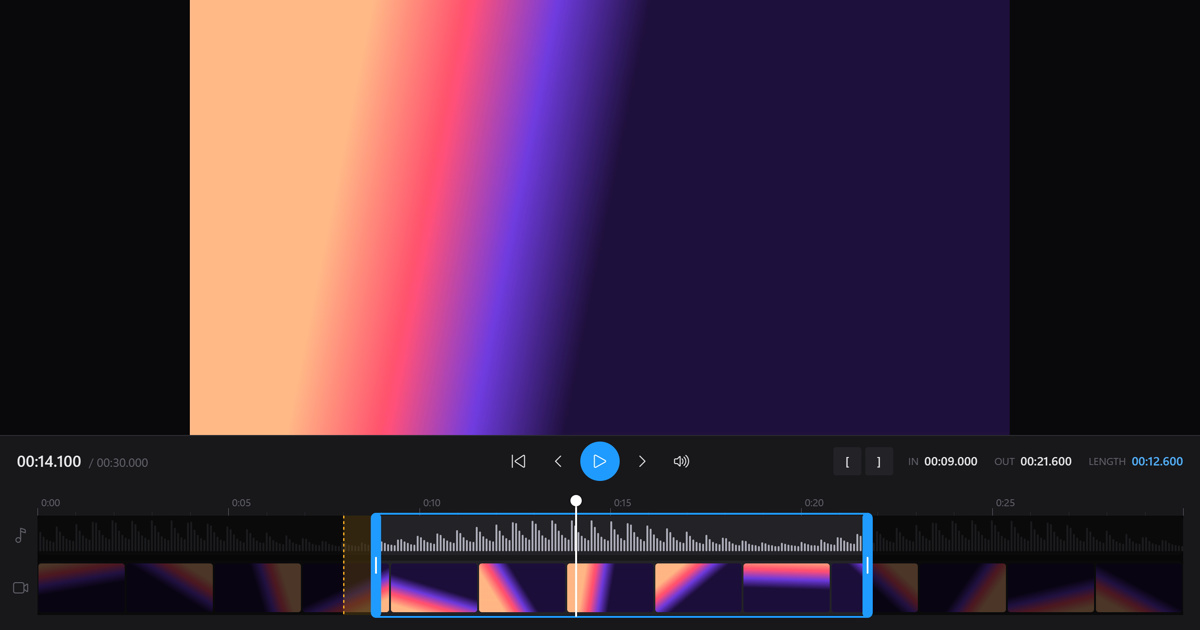
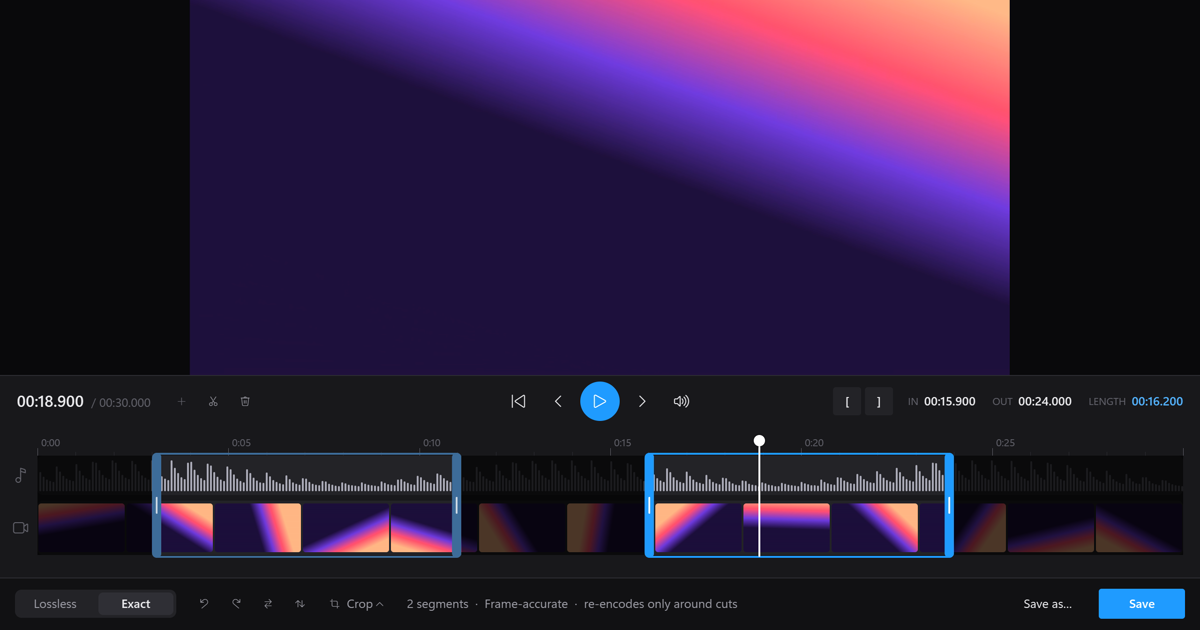
Website and README for VidTrim 0.3.0: smart cut, segments, rotate/flip, crop, copy frame

diff --git a/docs/index.html b/docs/index.html
@@ -4,9 +4,9 @@
 <meta charset="utf-8">
 <meta name="viewport" content="width=device-width, initial-scale=1">
 <title>VidTrim — trim videos from the right-click menu</title>
-<meta name="description" content="VidTrim is a tiny, native Windows app: right-click any video, drag two handles, save. Lossless cuts in seconds or frame-accurate GPU re-encodes.">
+<meta name="description" content="VidTrim is a tiny, native Windows app: right-click any video, drag the handles, save. Lossless cuts in seconds, frame-accurate smart cuts, cut out the middle, rotate and crop.">
 <meta property="og:title" content="VidTrim — trim videos from the right-click menu">
-<meta property="og:description" content="Right-click a video, drag two handles, save. Native, instant, lossless. Free for Windows 10 &amp; 11.">
+<meta property="og:description" content="Right-click a video, drag the handles, save. Cut out the middle, rotate, crop. Native, instant, lossless. Free for Windows 10 &amp; 11.">
 <meta property="og:image" content="https://adamcfranco.github.io/vidtrim-releases/assets/og.png">
 <meta property="og:type" content="website">
 <meta name="twitter:card" content="summary_large_image">
@@ -152,12 +152,14 @@
   .mini .strip span { flex: 1; border-radius: 4px; background: linear-gradient(135deg, #2a1052, #7b2ff7 45%, #ff4d6d 75%, #ffb38a); opacity: .9; }
   .mini .strip span:nth-child(2n) { background: linear-gradient(200deg, #1d0b3a, #6c2bd9 40%, #ff3d6e 80%); }
   .mini .dim { position: absolute; top: 0; bottom: 0; background: rgba(0, 0, 0, 0.62); }
-  .mini .sel { position: absolute; top: 4px; bottom: 4px; left: 26%; right: 22%; border: 2px solid var(--accent); border-radius: 7px; }
+  .mini .sel { position: absolute; top: 4px; bottom: 4px; border: 2px solid var(--accent); border-radius: 7px; }
   .mini .sel::before, .mini .sel::after {
-    content: ""; position: absolute; top: -2px; bottom: -2px; width: 10px; background: var(--accent); border-radius: 5px;
+    content: ""; position: absolute; top: -2px; bottom: -2px; width: 9px; background: var(--accent); border-radius: 5px;
   }
-  .mini .sel::before { left: -10px; }
-  .mini .sel::after { right: -10px; }
+  .mini .sel::before { left: -2px; }
+  .mini .sel::after { right: -2px; }
+  .mini .sel.idle { border-color: #3d6c99; }
+  .mini .sel.idle::before, .mini .sel.idle::after { background: #3d6c99; }
 
   .saved {
     display: flex; align-items: center; gap: 10px; padding: 12px 14px;
@@ -239,7 +241,7 @@
     <div class="wrap">
       <span class="eyebrow">Free for <b>Windows 10 &amp; 11</b></span>
       <h1>Trim any video from the <span class="grad">right-click menu</span>.</h1>
-      <p class="lede">Right-click a video, drag two handles, hit Save. VidTrim opens instantly, plays almost any format, and cuts without re-encoding, so the trim is ready in seconds.</p>
+      <p class="lede">Right-click a video, drag the handles, hit Save. Cut out the boring middle, fix a sideways phone clip or crop it for Shorts. VidTrim opens instantly, plays almost any format, and cuts without re-encoding, so the trim is ready in seconds.</p>
       <div class="cta">
         <a class="btn btn-primary" href="https://github.com/adamcfranco/vidtrim-releases/releases/latest/download/VidTrimSetup.exe">
           <svg viewBox="0 0 24 24" fill="none" stroke="currentColor" stroke-width="2.2" stroke-linecap="round" stroke-linejoin="round"><path d="M12 3v12"/><path d="m7 10 5 5 5-5"/><path d="M5 21h14"/></svg>
@@ -251,7 +253,7 @@
       <div class="shot">
         <img src="assets/screenshot.webp" width="2560" height="1600"
              srcset="assets/screenshot-1200.webp 1200w, assets/screenshot.webp 2560w" sizes="(max-width: 1128px) 100vw, 1080px"
-             alt="VidTrim with a clip open: video preview, transport controls, and a timeline with waveform, filmstrip and blue trim handles">
+             alt="VidTrim with a clip open: video preview, a Saved notification, transport controls, and a timeline with two kept segments around a removed middle part">
       </div>
     </div>
   </div>
@@ -282,13 +284,15 @@
         <div class="step">
           <div class="num">2</div>
           <h3>Drag the handles</h3>
-          <p>Scrub the filmstrip and waveform, step frame by frame, or press <kbd>I</kbd> and <kbd>O</kbd> at the playhead.</p>
+          <p>Scrub the filmstrip and waveform, step frame by frame, or press <kbd>I</kbd> and <kbd>O</kbd> at the playhead. Press <kbd>S</kbd> to split and <kbd>Del</kbd> to cut a part out.</p>
           <div class="visual">
             <div class="mini">
               <div class="strip"><span></span><span></span><span></span><span></span><span></span><span></span><span></span></div>
-              <div class="dim" style="left:0; width:26%"></div>
-              <div class="dim" style="right:0; width:22%"></div>
-              <div class="sel"></div>
+              <div class="dim" style="left:0; width:8%"></div>
+              <div class="dim" style="left:44%; width:14%"></div>
+              <div class="dim" style="right:0; width:14%"></div>
+              <div class="sel idle" style="left:8%; right:56%"></div>
+              <div class="sel" style="left:58%; right:14%"></div>
             </div>
           </div>
         </div>
@@ -319,12 +323,27 @@
         <div class="feature">
           <div class="icon"><svg viewBox="0 0 24 24" fill="none" stroke="currentColor" stroke-width="2" stroke-linecap="round" stroke-linejoin="round"><path d="M13 2 3 14h9l-1 8 10-12h-9l1-8z"/></svg></div>
           <h3>Lossless in seconds</h3>
-          <p>Lossless mode copies the original streams with no re-encode and no quality loss, at disk speed. The timeline marks the keyframe the cut will start from.</p>
+          <p>Lossless mode copies the original streams with no re-encode and no quality loss, at disk speed. The timeline marks the keyframe each cut will start from.</p>
         </div>
         <div class="feature">
           <div class="icon"><svg viewBox="0 0 24 24" fill="none" stroke="currentColor" stroke-width="2" stroke-linecap="round" stroke-linejoin="round"><circle cx="12" cy="12" r="9"/><circle cx="12" cy="12" r="4"/><path d="M12 3v2M12 19v2M3 12h2M19 12h2"/></svg></div>
-          <h3>Frame-accurate when you need it</h3>
-          <p>Exact mode cuts on the frame and re-encodes on your GPU (NVIDIA, AMD or Intel), keeping 10-bit HEVC and rotation intact.</p>
+          <h3>Frame-accurate smart cuts</h3>
+          <p>Exact mode cuts on the exact frame. For H.264 and HEVC it re-encodes only the few frames around each cut and copies the rest untouched. Other formats re-encode on your GPU (NVIDIA, AMD or Intel).</p>
+        </div>
+        <div class="feature">
+          <div class="icon"><svg viewBox="0 0 24 24" fill="none" stroke="currentColor" stroke-width="2" stroke-linecap="round" stroke-linejoin="round"><circle cx="6" cy="6" r="3"/><circle cx="6" cy="18" r="3"/><path d="M20 4 8.1 15.9M14.5 14.5 20 20M8.1 8.1 12 12"/></svg></div>
+          <h3>Cut out the middle</h3>
+          <p>Split at the playhead and delete what you don&rsquo;t want, or keep several highlights from one long recording. Playback skips the removed parts, and saving joins the rest into one file.</p>
+        </div>
+        <div class="feature">
+          <div class="icon"><svg viewBox="0 0 24 24" fill="none" stroke="currentColor" stroke-width="2" stroke-linecap="round" stroke-linejoin="round"><path d="M6 2v14a2 2 0 0 0 2 2h14"/><path d="M18 22V8a2 2 0 0 0-2-2H2"/></svg></div>
+          <h3>Rotate, flip and crop</h3>
+          <p>Fix a sideways phone video without re-encoding, mirror it, or crop to 9:16, 4:5, 1:1 or 16:9 for Shorts, Reels and posts. Drag the crop box to frame the shot.</p>
+        </div>
+        <div class="feature">
+          <div class="icon"><svg viewBox="0 0 24 24" fill="none" stroke="currentColor" stroke-width="2" stroke-linecap="round" stroke-linejoin="round"><rect x="8" y="8" width="13" height="13" rx="2"/><path d="M4 16a1 1 0 0 1-1-1V4a1 1 0 0 1 1-1h11a1 1 0 0 1 1 1"/></svg></div>
+          <h3>Copy any frame</h3>
+          <p>Right-click the video, or press <kbd>Ctrl</kbd><kbd>C</kbd>, to copy the current frame at full resolution, ready to paste into a chat, a doc or an image editor.</p>
         </div>
         <div class="feature">
           <div class="icon"><svg viewBox="0 0 24 24" fill="none" stroke="currentColor" stroke-width="2" stroke-linecap="round" stroke-linejoin="round"><rect x="3" y="5" width="18" height="14" rx="2"/><path d="m10 9 5 3-5 3z"/></svg></div>
@@ -362,6 +381,12 @@
         <div class="key"><span>Step one frame</span><div><kbd>&larr;</kbd><kbd>&rarr;</kbd></div></div>
         <div class="key"><span>Jump one second</span><div><kbd>Shift</kbd><kbd>&larr;</kbd><kbd>&rarr;</kbd></div></div>
         <div class="key"><span>Set in / out at playhead</span><div><kbd>I</kbd><kbd>O</kbd></div></div>
+        <div class="key"><span>Split at the playhead</span><div><kbd>S</kbd></div></div>
+        <div class="key"><span>Remove the selected segment</span><div><kbd>Del</kbd></div></div>
+        <div class="key"><span>Keep a removed part again</span><div><kbd>A</kbd></div></div>
+        <div class="key"><span>Rotate right / left</span><div><kbd>R</kbd><kbd>Shift</kbd><kbd>R</kbd></div></div>
+        <div class="key"><span>Flip horizontal / vertical</span><div><kbd>H</kbd><kbd>V</kbd></div></div>
+        <div class="key"><span>Copy frame</span><div><kbd>Ctrl</kbd><kbd>C</kbd></div></div>
         <div class="key"><span>Save / Save as</span><div><kbd>Ctrl</kbd><kbd>S</kbd></div></div>
         <div class="key"><span>Lossless / Exact</span><div><kbd>L</kbd></div></div>
         <div class="key"><span>Volume / mute</span><div><kbd>&uarr;</kbd><kbd>&darr;</kbd><kbd>M</kbd></div></div>
@@ -388,7 +413,15 @@
         </details>
         <details>
           <summary>Lossless or Exact: which should I use?</summary>
-          <p>Lossless copies the video as-is, so it&rsquo;s instant and keeps full quality. The cut can only start on a keyframe, and VidTrim shows exactly where that is. Exact starts on the frame you chose but re-encodes the video on your GPU.</p>
+          <p>Lossless copies the video as-is, so it&rsquo;s instant and keeps full quality. Each part can only start on a keyframe, and VidTrim shows exactly where that is. Exact starts and ends on the frames you chose. For H.264 and HEVC it re-encodes only the frames between each cut and the nearest keyframe and copies everything else, so it&rsquo;s nearly as fast. Other formats are re-encoded on your GPU.</p>
+        </details>
+        <details>
+          <summary>How do I cut something out of the middle?</summary>
+          <p>Move the playhead to where the unwanted part starts and press <kbd>S</kbd> (or the scissors button), move to where it ends and press <kbd>S</kbd> again, then click the piece in between and press <kbd>Del</kbd>. Keep as many parts as you like: they&rsquo;re joined into one file when you save.</p>
+        </details>
+        <details>
+          <summary>Does rotating or cropping cost quality?</summary>
+          <p>Rotating and flipping don&rsquo;t: VidTrim writes the new orientation into the file, the way phones do, so even a Lossless save stays untouched. Cropping changes the picture itself, so it saves in Exact mode and re-encodes the video.</p>
         </details>
         <details>
           <summary>Does it need admin rights or change my files?</summary>

diff --git a/README.md b/README.md
@@ -6,7 +6,7 @@
 
 <p align="center">
   <b>Trim any video from the right-click menu.</b><br>
-  A tiny, native Windows app: right-click a video, drag two handles, save.
+  A tiny, native Windows app: right-click a video, drag the handles, save.
 </p>
 
 <p align="center">
@@ -18,14 +18,17 @@
 </p>
 
 <p align="center">
-  <img src="docs/assets/screenshot.webp" alt="VidTrim screenshot: video preview, transport controls and a timeline with waveform, filmstrip and trim handles">
+  <img src="docs/assets/screenshot.webp" alt="VidTrim screenshot: video preview, a Saved notification, transport controls and a timeline with two kept segments around a removed middle part">
 </p>
 
 ## Features
 
 - **Right-click → Trim...** on MP4, MKV, MOV, WebM, AVI and 25+ other video types.
-- **Lossless** cuts copy the original streams: no re-encode, no quality loss, done in seconds. The timeline marks the keyframe the cut starts from.
-- **Exact** cuts start on the exact frame and re-encode on your GPU (NVIDIA NVENC, AMD AMF, Intel Quick Sync, or Media Foundation).
+- **Lossless** cuts copy the original streams: no re-encode, no quality loss, done in seconds. The timeline marks the keyframe each cut starts from.
+- **Exact** cuts start and end on the exact frame. For H.264 and HEVC it's a smart cut: only the frames around each cut are re-encoded and everything in between is copied untouched. Other formats re-encode on your GPU (NVIDIA NVENC, AMD AMF, Intel Quick Sync, or Media Foundation).
+- **Cut out the middle**: split at the playhead and delete parts, or keep several highlights. The kept parts are joined into one file.
+- **Rotate and flip** without re-encoding (written as orientation metadata), and **crop** to 9:16, 4:5, 1:1 or 16:9 (re-encodes).
+- **Copy frame**: right-click the video or press <kbd>Ctrl</kbd> + <kbd>C</kbd> to copy the current frame at full resolution.
 - Plays almost anything with hardware decoding: H.264, HEVC 10-bit, AV1, VP9, ProRes and more, up to 4K60, with HDR tone-mapped for preview.
 - Filmstrip and waveform timeline with zoom, frame stepping and keyboard shortcuts.
 - Audio follows your output device and compensates for Bluetooth latency; the delay is adjustable for each device.
@@ -50,6 +53,12 @@ To uninstall, go to **Settings → Apps → Installed apps → VidTrim → Unins
 | Step one frame | <kbd>←</kbd> <kbd>→</kbd> |
 | Jump one second | <kbd>Shift</kbd> + <kbd>←</kbd> <kbd>→</kbd> |
 | Set in / out at the playhead | <kbd>I</kbd> <kbd>O</kbd> |
+| Split at the playhead | <kbd>S</kbd> |
+| Remove the selected segment | <kbd>Del</kbd> |
+| Keep a removed part again | <kbd>A</kbd> |
+| Rotate right / left | <kbd>R</kbd> / <kbd>Shift</kbd> + <kbd>R</kbd> |
+| Flip horizontal / vertical | <kbd>H</kbd> / <kbd>V</kbd> |
+| Copy frame | <kbd>Ctrl</kbd> + <kbd>C</kbd> |
 | Save / Save as | <kbd>Ctrl</kbd> + <kbd>S</kbd> / <kbd>Ctrl</kbd> + <kbd>Shift</kbd> + <kbd>S</kbd> |
 | Lossless / Exact | <kbd>L</kbd> |
 | Volume / mute | <kbd>↑</kbd> <kbd>↓</kbd> / <kbd>M</kbd> |
